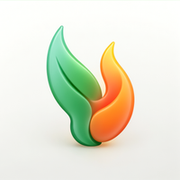
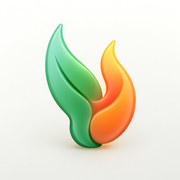
App-Symbol in höherer Auflösung (bis 512 px)
Claude-Session: https://claude.ai/code/session_01HmAvkK9wZQkQGTcNjXxv4F

diff --git a/index.html b/index.html
@@ -278,7 +278,7 @@ h2.sec{font-size:0.765rem;text-transform:uppercase;letter-spacing:.08em;color:va
 <body>
 <svg width="0" height="0" style="position:absolute"><defs><linearGradient id="grad" x1="0" y1="0" x2="1" y2="1"><stop offset="0" stop-color="#12B76A"/><stop offset="1" stop-color="#0EA5A4"/></linearGradient></defs></svg>
 
-<div class="launch" id="launch" aria-hidden="true"><img src="icon-256.png" alt=""><b>Kalo</b><span>Kalorien zählen, einfach.</span></div>
+<div class="launch" id="launch" aria-hidden="true"><img src="icon-512.png" alt=""><b>Kalo</b><span>Kalorien zählen, einfach.</span></div>
 <div class="wrap">
   <!-- TAGEBUCH -->
   <section class="view on" id="v-diary">
@@ -334,7 +334,7 @@ h2.sec{font-size:0.765rem;text-transform:uppercase;letter-spacing:.08em;color:va
         <p class="hint" style="margin-top:0"><b>Als App installieren:</b> In Safari unten auf <b>Teilen</b> tippen, dann <b>„Zum Home-Bildschirm“</b>. Öffne Kalo danach immer über das Symbol auf dem Home-Bildschirm.</p>
         <button class="btn danger" id="btnReset">Alle Daten löschen</button>
       </section>
-      <p class="credits">Nährwerte: <a href="https://blsdb.de" target="_blank" rel="noopener">Bundeslebensmittelschlüssel 4.0</a>, Max Rubner-Institut (<a href="https://creativecommons.org/licenses/by/4.0/deed.de" target="_blank" rel="noopener">CC BY 4.0</a>), Auszug: nur Energie und Makronährstoffe. Markenprodukte: <a href="https://world.openfoodfacts.org" target="_blank" rel="noopener">Open Food Facts</a> (ODbL). Barcode-Scanner: ZXing (Apache-2.0).</p><p class="hint" style="text-align:center">Kalo · Version 0.9</p>
+      <p class="credits">Nährwerte: <a href="https://blsdb.de" target="_blank" rel="noopener">Bundeslebensmittelschlüssel 4.0</a>, Max Rubner-Institut (<a href="https://creativecommons.org/licenses/by/4.0/deed.de" target="_blank" rel="noopener">CC BY 4.0</a>), Auszug: nur Energie und Makronährstoffe. Markenprodukte: <a href="https://world.openfoodfacts.org" target="_blank" rel="noopener">Open Food Facts</a> (ODbL). Barcode-Scanner: ZXing (Apache-2.0).</p><p class="hint" style="text-align:center">Kalo · Version 0.9.1</p>
     </div>
   </section>
 </div>

diff --git a/sw.js b/sw.js
@@ -1,6 +1,6 @@
 /* Kalo Service Worker: App offline verfügbar machen */
-var V='kalo-0.9';
-var ASSETS=['./','index.html','manifest.json','icon-180.png','icon-256.png','icon-96.png','bls.json','zxing.min.js'];
+var V='kalo-0.9.1';
+var ASSETS=['./','index.html','manifest.json','icon-180.png','icon-256.png','icon-96.png','icon-512.png','bls.json','zxing.min.js'];
 self.addEventListener('install',function(e){
   e.waitUntil(caches.open(V).then(function(c){return c.addAll(ASSETS);}).then(function(){return self.skipWaiting();}));
 });
